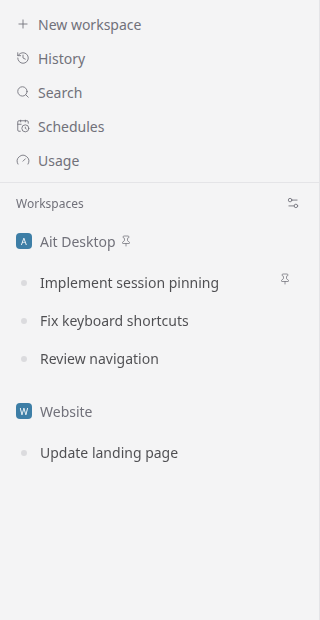
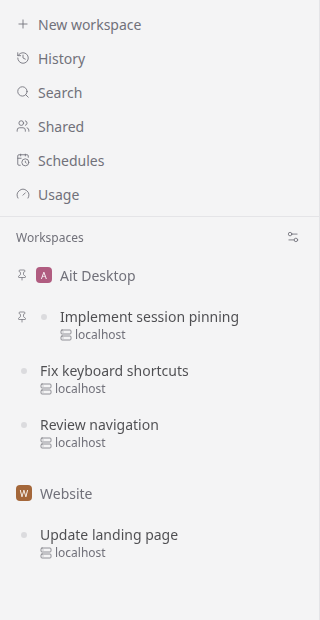
fix(desktop): show sidebar pin indicators at the start of rows

diff --git a/apps/mobile/src/components/sidebar/sidebar-workspace-row-content.tsx b/apps/mobile/src/components/sidebar/sidebar-workspace-row-content.tsx
@@ -128,6 +128,11 @@ export const SidebarWorkspaceRowContent = memo(function SidebarWorkspaceRowConte
   return (
     <View style={styles.workspaceRowContent}>
       <View style={styles.workspaceRowMain}>
+        {workspace.pinnedAt != null ? (
+          <SidebarPinIndicator
+            testID={`sidebar-workspace-pin-indicator-${workspace.workspaceKey}`}
+          />
+        ) : null}
         {leadingProjectName ? (
           <ProjectStatusIndicator
             iconDataUri={leadingProjectIconDataUri}
@@ -151,11 +156,6 @@ export const SidebarWorkspaceRowContent = memo(function SidebarWorkspaceRowConte
             <Text style={workspaceBranchTextStyle} numberOfLines={1}>
               {workspaceLabel}
             </Text>
-            {workspace.pinnedAt != null ? (
-              <SidebarPinIndicator
-                testID={`sidebar-workspace-pin-indicator-${workspace.workspaceKey}`}
-              />
-            ) : null}
             <View style={sidebarWorkspaceRowStyles.rowRight}>{children}</View>
           </View>
           <WorkspaceMetaRow

diff --git a/apps/mobile/src/components/sidebar/sidebar-pin-indicator.tsx b/apps/mobile/src/components/sidebar/sidebar-pin-indicator.tsx
@@ -1,7 +1,7 @@
 import { Pin } from "lucide-react-native";
 import { useTranslation } from "react-i18next";
 import { View } from "react-native";
-import { withUnistyles } from "react-native-unistyles";
+import { StyleSheet, withUnistyles } from "react-native-unistyles";
 import type { Theme } from "@/styles/theme";
 
 const ThemedPin = withUnistyles(Pin);
@@ -10,8 +10,22 @@ const mutedColor = (theme: Theme) => ({ color: theme.colors.foregroundMuted });
 export function SidebarPinIndicator({ testID }: { testID: string }) {
   const { t } = useTranslation();
   return (
-    <View testID={testID} accessibilityLabel={t("sidebar.pinned.title")} pointerEvents="none">
+    <View
+      style={styles.indicator}
+      testID={testID}
+      accessibilityLabel={t("sidebar.pinned.title")}
+      pointerEvents="none"
+    >
       <ThemedPin size={12} uniProps={mutedColor} />
     </View>
   );
 }
+
+const styles = StyleSheet.create({
+  indicator: {
+    height: 20,
+    flexShrink: 0,
+    alignItems: "center",
+    justifyContent: "center",
+  },
+});

diff --git a/apps/mobile/src/components/sidebar-workspace-list.tsx b/apps/mobile/src/components/sidebar-workspace-list.tsx
@@ -954,6 +954,9 @@ function ProjectHeaderRow({
   const rowChildren = (
     <>
       <View style={styles.projectRowLeft}>
+        {isPinned ? (
+          <SidebarPinIndicator testID={`sidebar-project-pin-indicator-${project.viewKey}`} />
+        ) : null}
         <ProjectLeadingVisual
           displayName={displayName}
           iconDataUri={iconDataUri}
@@ -973,9 +976,6 @@ function ProjectHeaderRow({
           <Text style={styles.projectTitle} numberOfLines={1}>
             {displayName}
           </Text>
-          {isPinned ? (
-            <SidebarPinIndicator testID={`sidebar-project-pin-indicator-${project.viewKey}`} />
-          ) : null}
         </View>
       </View>
       <ProjectRowTrailingActions
